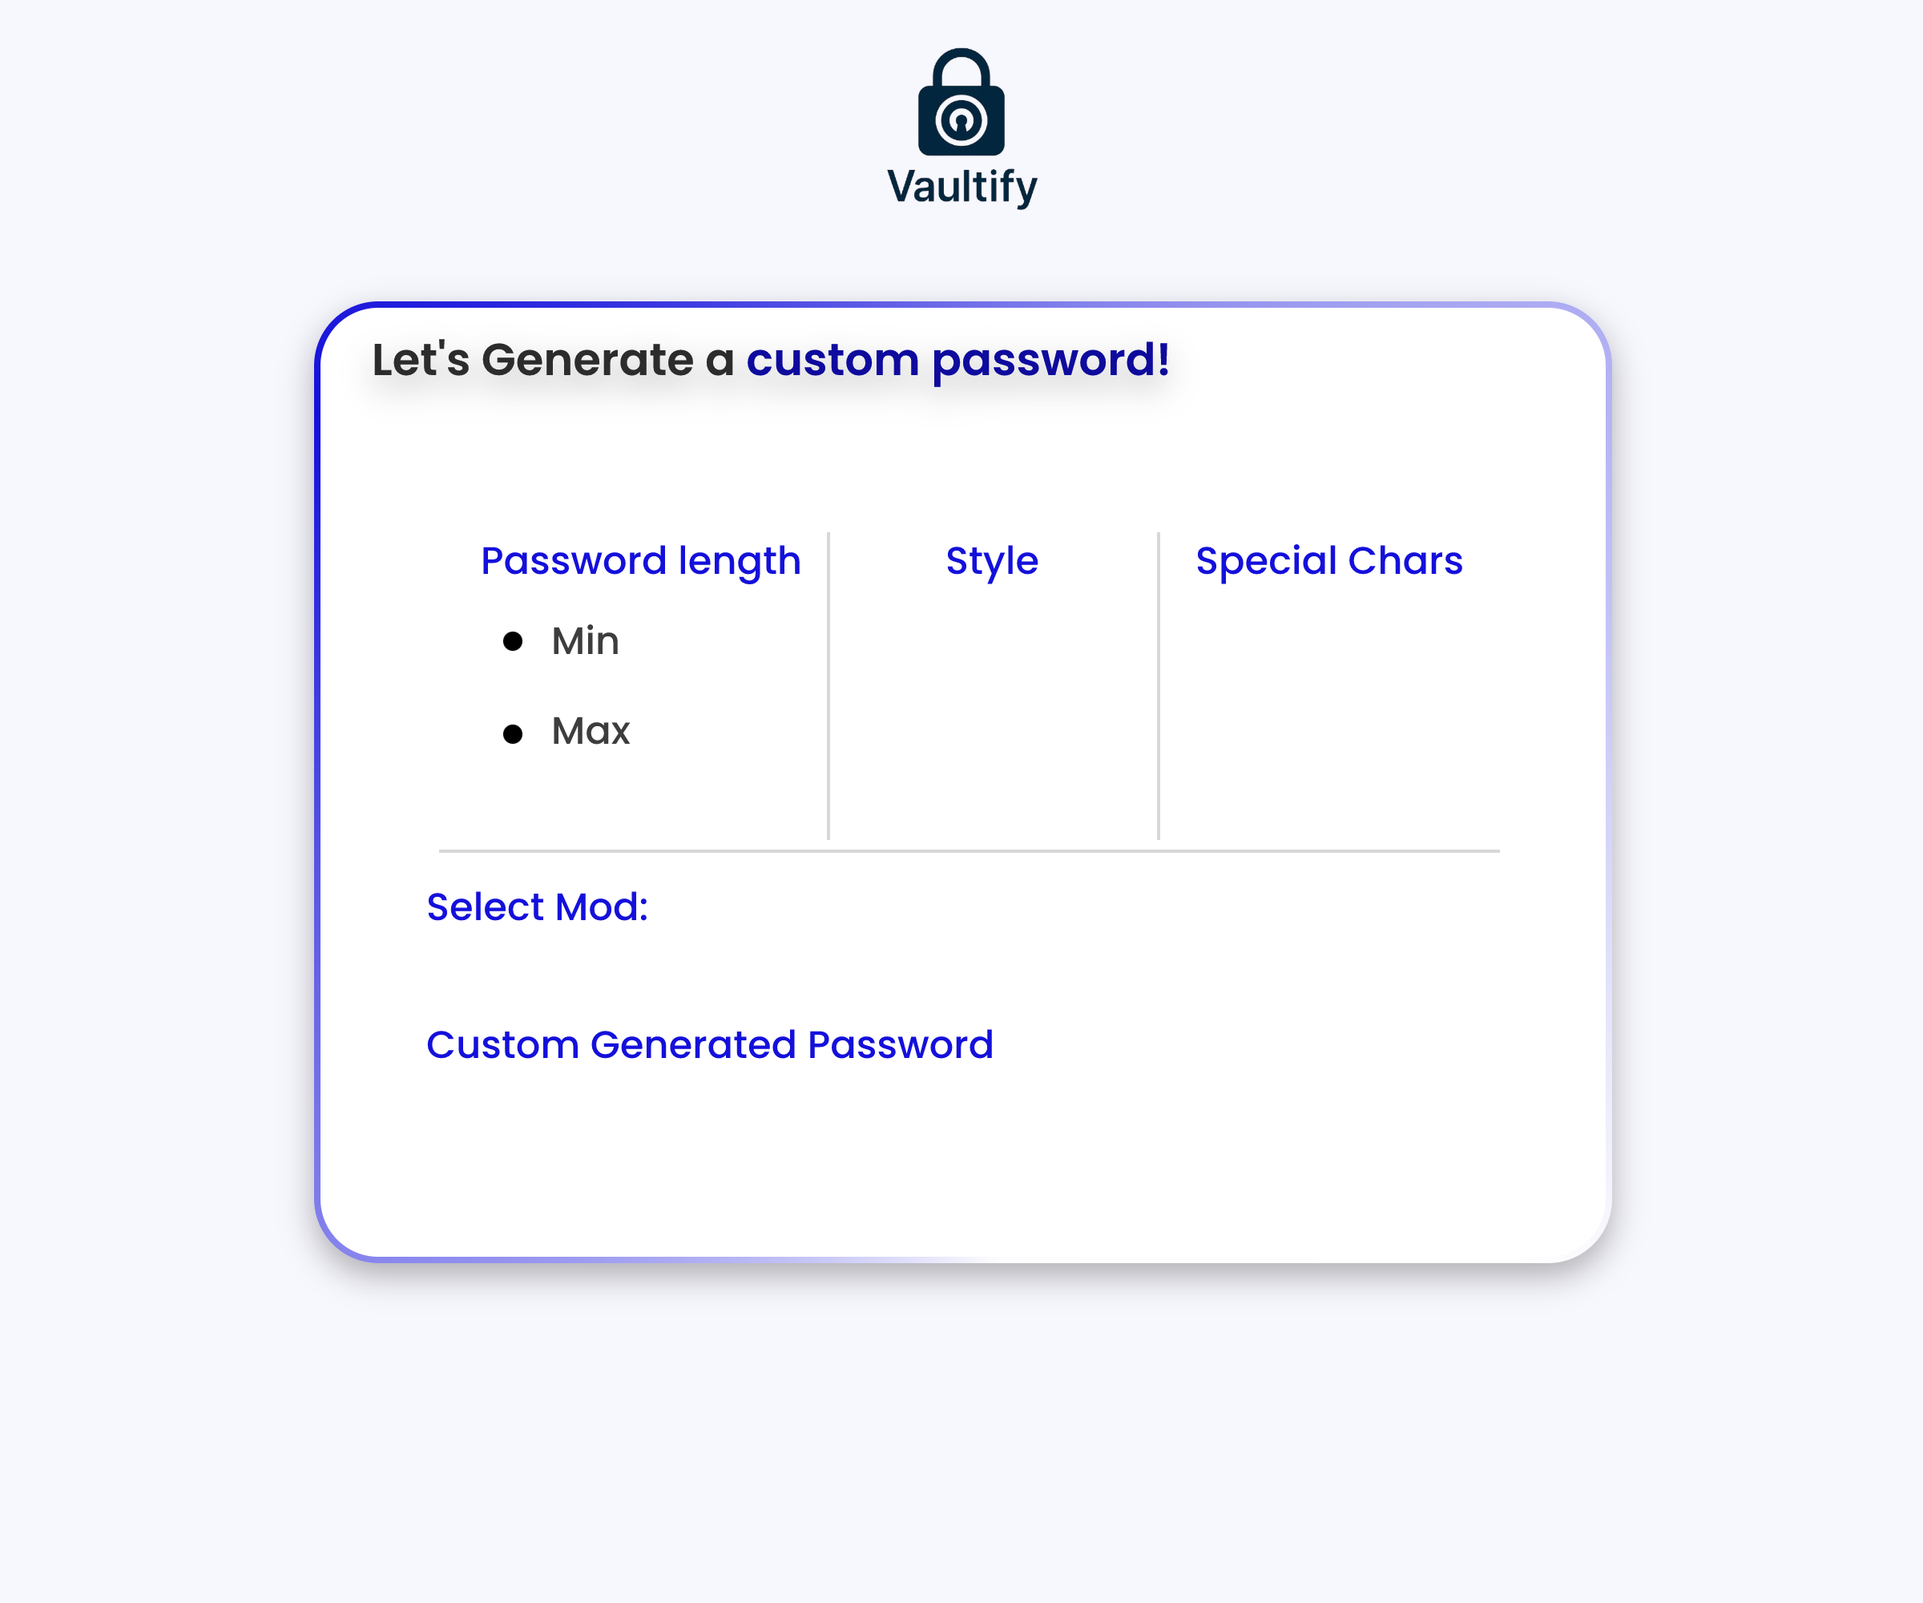
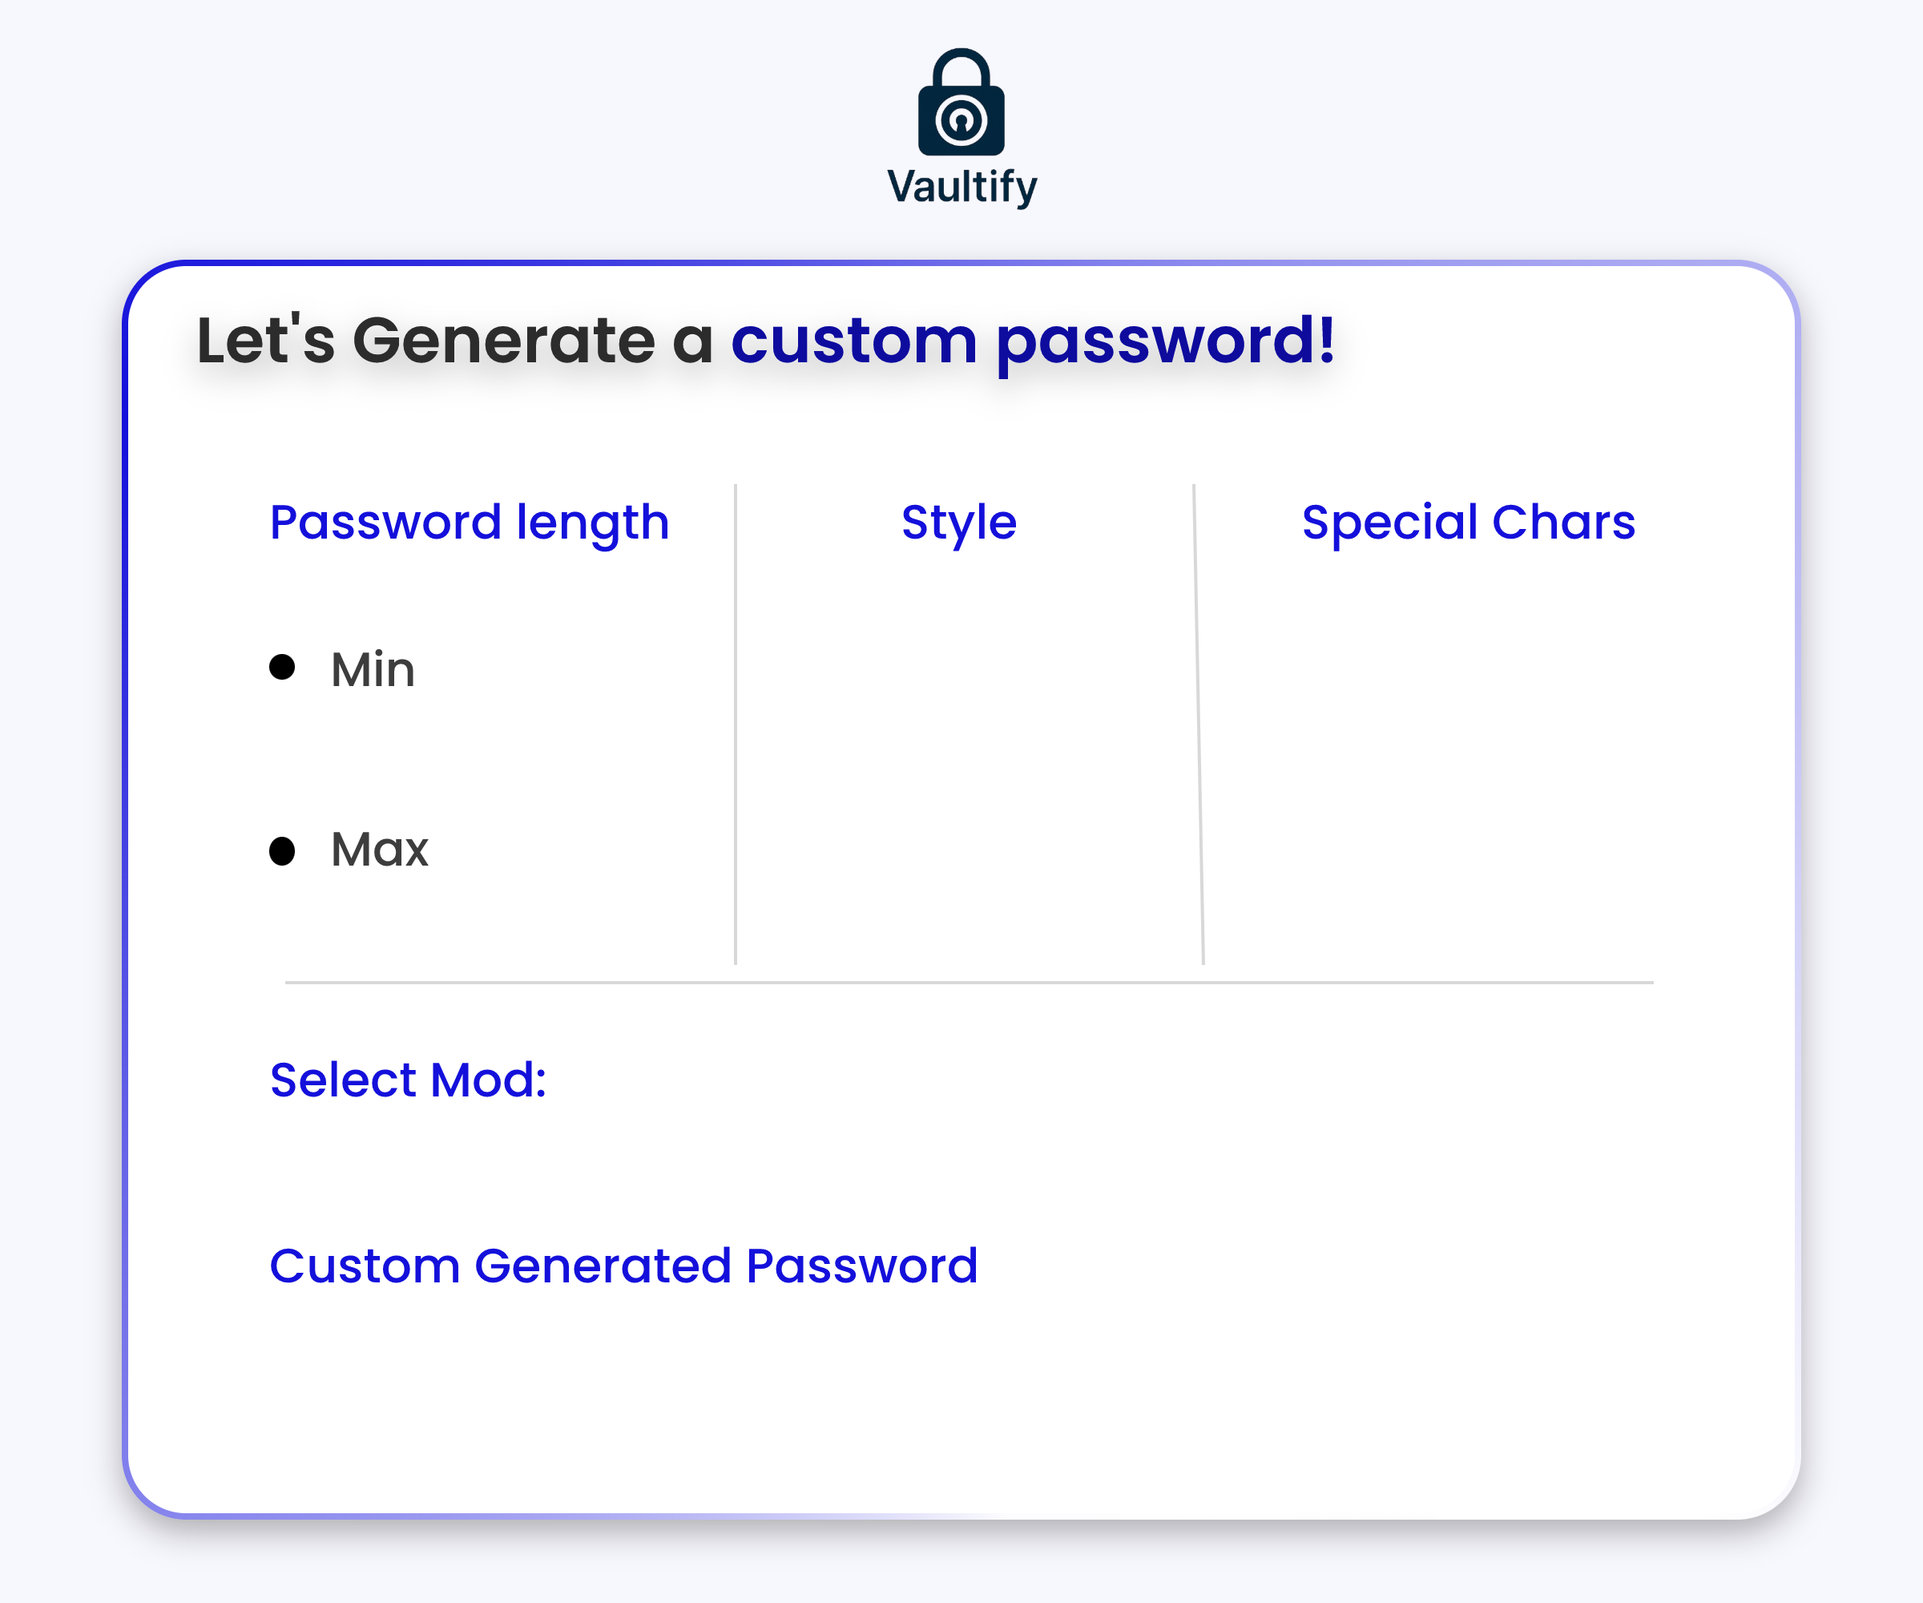
mid commit 3

diff --git a/main.py b/main.py
@@ -1,5 +1,6 @@
 from tkinter import *
 from tkinter import messagebox
+from tkinter import filedialog
 from PIL import Image, ImageTk
 import os
 import customtkinter as ctk
@@ -19,6 +20,7 @@ from pyzbar.pyzbar import decode
 import time
 import cv2
 import threading
+import qrcode
 
 current_winfo = ["Dashboard"]
 pass_style = ["AlphaNumeric"]
@@ -199,6 +201,7 @@ def home_func():
     wifi_canvas.pack_forget()
     settings_canvas.pack_forget()
     add_password_canvas.pack_forget()
+    gen_qr_canvas.pack_forget()
     show_password_canvas.pack_forget()
     clear_scrollable_frame(password_frame)
     content_canvas.pack(fill='both', expand=True)
@@ -219,6 +222,7 @@ def pass_func():
     qr_canvas.pack_forget()
     wifi_canvas.pack_forget()
     settings_canvas.pack_forget()
+    gen_qr_canvas.pack_forget()
     add_password_canvas.pack_forget()
     show_password_canvas.pack_forget()
     clear_scrollable_frame(password_frame)
@@ -242,6 +246,7 @@ def passgen_func():
     wifi_canvas.pack_forget()
     settings_canvas.pack_forget()
     add_password_canvas.pack_forget()
+    gen_qr_canvas.pack_forget()
     show_password_canvas.pack_forget()
     clear_scrollable_frame(password_frame)
     passgen_canvas.pack(fill='both', expand=True)
@@ -263,6 +268,7 @@ def qr_func():
     passgen_canvas.pack_forget()
     wifi_canvas.pack_forget()
     settings_canvas.pack_forget()
+    gen_qr_canvas.pack_forget()
     add_password_canvas.pack_forget()
     show_password_canvas.pack_forget()
     clear_scrollable_frame(password_frame)
@@ -277,6 +283,14 @@ def qr_func():
 
     current_winfo.insert(0, "QR")
 
+def gen_qr_func():
+    qr_canvas.pack_forget()
+    gen_qr_canvas.pack(fill='both', expand=True)
+
+def gen_qr_back():
+    gen_qr_canvas.pack_forget()
+    qr_canvas.pack(fill='both', expand=True)
+
 def wifi_func():
     global current_winfo
     content_canvas.pack_forget()
@@ -286,6 +300,7 @@ def wifi_func():
     settings_canvas.pack_forget()
     add_password_canvas.pack_forget()
     show_password_canvas.pack_forget()
+    gen_qr_canvas.pack_forget()
     clear_scrollable_frame(password_frame)
     wifi_canvas.pack(fill='both', expand=True)
 
@@ -308,6 +323,7 @@ def setting_func():
     qr_canvas.pack_forget()
     add_password_canvas.pack_forget()
     show_password_canvas.pack_forget()
+    gen_qr_canvas.pack_forget()
     clear_scrollable_frame(password_frame)
     wifi_canvas.pack_forget()
 
@@ -372,6 +388,10 @@ def fetch_credentials():
     except sqlite3.OperationalError:
         messagebox.showinfo("Empty Password Data", "First add some password!")
 
+def Label_image(Image_path):
+    pil_image = Image.open(Image_path)  # Replace with your image path
+    ctk_image = ctk.CTkImage(light_image=pil_image, dark_image=pil_image, size=(20, 20))
+    return ctk_image
 
 def show_all_pass():
     password_canvas.pack_forget()
@@ -388,12 +408,19 @@ def show_all_pass():
             row.pack(fill="x", pady=5, padx=5)
 
             # Domain
-            domain_label = ctk.CTkLabel(row, text=f"🌐 {data['domain']}", font=ctk.CTkFont("poppins", size=12, weight="bold"),
+            cwd = os.getcwd()
+            imspath = os.path.join(cwd, "Assets","Labels", "globe.png")
+            domain_img = Label_image(imspath)
+
+            domain_label = ctk.CTkLabel(row,image=domain_img ,text=f" {data['domain']}", compound='left', font=ctk.CTkFont("poppins", size=12, weight="bold"),
                                         fg_color="#F7F7FE", corner_radius=20, bg_color="#F7F7FE", text_color="#1410DB")
             domain_label.grid(row=0, column=0, padx=10, pady=5, sticky="w")
 
             # Password + Copy Button
-            pwd_label = ctk.CTkLabel(row, text=f"🔑 {data['password']}", font=ctk.CTkFont("poppins", size=12),
+            imspath = os.path.join(cwd, "Assets","Labels", "keypass.png")
+            pwd_img = Label_image(imspath)
+
+            pwd_label = ctk.CTkLabel(row, image = pwd_img, text=f" {data['password']}", compound='left', font=ctk.CTkFont("poppins", size=12),
                                     fg_color="#F7F7FE", corner_radius=20, bg_color="#F7F7FE")
             pwd_label.grid(row=1, column=0, padx=10, sticky="w", pady = 5)
 
@@ -402,7 +429,10 @@ def show_all_pass():
             pwd_copy.grid(row=1, column=1, padx=5, pady = 5)
 
             # Phone + Copy Button
-            phone_label = ctk.CTkLabel(row, text=f"📞 {data['phone']}", font=ctk.CTkFont("poppins", size=12),
+            imspath = os.path.join(cwd, "Assets","Labels", "phone.png")
+            phone_img = Label_image(imspath)
+
+            phone_label = ctk.CTkLabel(row,image=phone_img ,text=f" {data['phone']}", compound='left', font=ctk.CTkFont("poppins", size=12),
                                     fg_color="#F7F7FE", corner_radius=20, bg_color="#F7F7FE")
             phone_label.grid(row=2, column=0, padx=10, sticky="w", pady = 5)
 
@@ -411,7 +441,11 @@ def show_all_pass():
             phone_copy.grid(row=2, column=1, padx=5, pady = 5)
 
             # Email + Copy Button
-            email_label = ctk.CTkLabel(row, text=f"📧 {data['email']}", font=ctk.CTkFont("poppins", size=12),
+
+            imspath = os.path.join(cwd, "Assets","Labels", "mail.png")
+            email_img = Label_image(imspath)
+            
+            email_label = ctk.CTkLabel(row,image=email_img ,text=f" {data['email']}", compound='left', font=ctk.CTkFont("poppins", size=12),
                                     fg_color="#F7F7FE", corner_radius=20, bg_color="#F7F7FE")
             email_label.grid(row=3, column=0, padx=10, pady=(0, 5), sticky="w")
 
@@ -427,7 +461,11 @@ def show_all_pass():
                 tc = "yellow"
             elif data['strength'] == "Strong":
                 tc = "green"
-            strength_label = ctk.CTkLabel(row, text=f"🛡 Strength: {data['strength']}", font=ctk.CTkFont("poppins", 12, "bold"),
+            
+            imspath = os.path.join(cwd, "Assets","Labels", "shield.png")
+            strn_img = Label_image(imspath)
+
+            strength_label = ctk.CTkLabel(row,image=strn_img ,text=f" Strength: {data['strength']}", compound='left', font=ctk.CTkFont("poppins", 12, "bold"),
                                         fg_color="#F7F7FE", corner_radius=20, bg_color="#F7F7FE", text_color=tc)
             strength_label.grid(row=4, column=0, padx=10, pady=(0, 8), sticky="w")
 
@@ -523,11 +561,11 @@ def add_pass_db():
 
     should_add = True
 
-    username_val = username_entry.get()
-    password_val = password_entry.get()
-    phone_val = phone_entry.get()
-    email_val = email_entry.get()
-    url_val = url_entry.get()
+    username_val = username_entry.get().strip()
+    password_val = password_entry.get().strip()
+    phone_val = phone_entry.get().strip()
+    email_val = email_entry.get().strip()
+    url_val = url_entry.get().strip()
 
     username_val = username_val if username_val else None
     password_val = password_val if password_val else None
@@ -855,6 +893,41 @@ def copyqr():
     global qr_content
     copy_to_clipboard(qr_content[0])
     
+def generate_qr_func():
+    # Get text from textbox
+    input_text = gen_qr_textbox.get("1.0", END).strip()
+    if not input_text:
+        messagebox.showerror("No-Input", "Give message to convert to QR")
+        return
+
+    # Generate QR Code
+    qr = qrcode.QRCode(
+        version=1,
+        error_correction=qrcode.constants.ERROR_CORRECT_H,
+        box_size=10,
+        border=4
+    )
+    qr.add_data(input_text)
+    qr.make(fit=True)
+
+    coloropt=["#641e16",'#512e5f','#4a235a','#154360','#1b4f72','#0b5345','#f1c40f','#f39c12','#F08080']
+    color=random.choice(coloropt)
+    qr_img = qr.make_image(fill_color=color, back_color="white")
+
+    # Save the image
+    save_path = filedialog.asksaveasfilename(defaultextension=".png", filetypes=[("PNG Image", "*.png")])
+    if save_path:
+        qr_img.save(save_path)
+
+        # Display image
+        img = Image.open(save_path)
+        img = img.resize((200, 200))
+        img_tk = ImageTk.PhotoImage(img)
+        qr_img_label.configure(image=img_tk, text="")
+        qr_img_label.image = img_tk  # keep a reference!
+
+def clear_qr():
+    gen_qr_textbox.delete("1.0", END)
 
 win=Tk()
 win.geometry("800x500+150+110")
@@ -1086,58 +1159,58 @@ passgen_canvas.create_image(300,250, image=bgimage9)
 
 min_entry = ctk.CTkEntry(passgen_canvas, font=("poppins", 12), placeholder_text="Min 6", fg_color="white", bg_color="white",
                          text_color="black", border_width=1, corner_radius=5, border_color="black", 
-                         width=50, height=25)
-min_entry.place(x = 200, y = 187)
+                         width=80, height=25)
+min_entry.place(x = 140, y = 197)
 
 max_entry = ctk.CTkEntry(passgen_canvas, font=("poppins", 12), placeholder_text="Max 25", fg_color="white", bg_color="white",
                          text_color="black", border_width=1, corner_radius=5, border_color="black", 
-                         width=50, height=25)
-max_entry.place(x = 203, y = 215)
+                         width=80, height=25)
+max_entry.place(x = 140, y = 253)
 an_var = IntVar()
 
-an_cb = ctk.CTkCheckBox(passgen_canvas, text="Alpha Numeric", font=('poppins', 12 ), fg_color="#1410DB", bg_color="white",
-                        text_color="black", checkmark_color="white", checkbox_height=15, checkbox_width=15,
+an_cb = ctk.CTkCheckBox(passgen_canvas, text="Alpha Numeric", font=('poppins', 14 ), fg_color="#1410DB", bg_color="white",
+                        text_color="black", checkmark_color="white", checkbox_height=24, checkbox_width=24,
                         command= customPassword, variable=an_var)
-an_cb.place(x =260, y = 187 )
+an_cb.place(x =240, y = 187 )
 
 a_var = IntVar()
-a_cb = ctk.CTkCheckBox(passgen_canvas, text="Alpha", font=('poppins', 12 ), fg_color="#1410DB", bg_color="white",
-                        text_color="black", checkmark_color="white", checkbox_height=15, checkbox_width=15,
+a_cb = ctk.CTkCheckBox(passgen_canvas, text="Alpha", font=('poppins', 14 ), fg_color="#1410DB", bg_color="white",
+                        text_color="black", checkmark_color="white", checkbox_height=24, checkbox_width=24,
                         command= customPassword, variable=a_var)
-a_cb.place(x =260, y = 210 )
+a_cb.place(x =240, y = 220 )
 
 n_var = IntVar()
-n_cb = ctk.CTkCheckBox(passgen_canvas, text="Numeric", font=('poppins', 12 ), fg_color="#1410DB", bg_color="white",
-                        text_color="black", checkmark_color="white", checkbox_height=15, checkbox_width=15,
+n_cb = ctk.CTkCheckBox(passgen_canvas, text="Numeric", font=('poppins', 14 ), fg_color="#1410DB", bg_color="white",
+                        text_color="black", checkmark_color="white", checkbox_height=24, checkbox_width=24,
                         command= customPassword, variable=n_var)
-n_cb.place(x =260, y = 230 )
+n_cb.place(x =240, y = 250 )
 
 yes_var = IntVar()
-spchar_cb_yes = ctk.CTkCheckBox(passgen_canvas, text="Yes", font=('poppins', 12 ), fg_color="#1410DB", bg_color="white",
-                        text_color="black", checkmark_color="white", checkbox_height=15, checkbox_width=15,
+spchar_cb_yes = ctk.CTkCheckBox(passgen_canvas, text="Yes", font=('poppins', 14 ), fg_color="#1410DB", bg_color="white",
+                        text_color="black", checkmark_color="white", checkbox_height=24, checkbox_width=24,
                         variable=yes_var, command=customChar)
-spchar_cb_yes.place(x =370, y = 187 )
+spchar_cb_yes.place(x =380, y = 187 )
 
 no_var = IntVar()
-spchar_cb_no = ctk.CTkCheckBox(passgen_canvas, text="No", font=('poppins', 12 ), fg_color="#1410DB", bg_color="white",
-                        text_color="black", checkmark_color="white", checkbox_height=15, checkbox_width=15,
+spchar_cb_no = ctk.CTkCheckBox(passgen_canvas, text="No", font=('poppins', 14 ), fg_color="#1410DB", bg_color="white",
+                        text_color="black", checkmark_color="white", checkbox_height=24, checkbox_width=24,
                         variable=no_var, command=customChar)
-spchar_cb_no.place(x =370, y = 230 )
+spchar_cb_no.place(x =380, y = 240 )
 
 value = ['Fruits','Flowers','Animals','Movies','Celebrities','Anime_Characters','Gaming_ID']
 mods = ctk.CTkOptionMenu(passgen_canvas, values=value, fg_color="#1410DB", text_color="white",
-                         height=25, width=100, bg_color="white")
-mods.place(relx = 0.46, rely = 0.565, anchor = 'center')
+                         height=30, width=150, bg_color="white")
+mods.place(relx = 0.46, rely = 0.675, anchor = 'center')
 mods.set("Select")
 
 cstmgenpass_dis = ctk.CTkEntry(passgen_canvas, font=("poppins",12), fg_color="white", bg_color="white",
                                border_width=1, border_color='black', state=DISABLED)
-cstmgenpass_dis.place(relx = 0.65, rely = 0.65, anchor = 'center')
+cstmgenpass_dis.place(relx = 0.65, rely = 0.785, anchor = 'center')
 
 
 gen_btn = ctk.CTkButton(passgen_canvas, text="Generate", font=("poppins", 12, "bold"), fg_color="#1410DB",
                         bg_color="white", text_color="white", command=Generate_custom_password)
-gen_btn.place(relx = 0.5, rely = 0.75, anchor = "center")
+gen_btn.place(relx = 0.5, rely = 0.9, anchor = "center")
 # --------------------------------------------------------------------------------------------------------------
 
 qr_canvas=Canvas(content_frame,bg='white',bd=0,highlightthickness=0, relief='ridge')
@@ -1162,6 +1235,46 @@ copy_qr = ctk.CTkButton(qr_canvas,text="Copy QR-Code", bg_color="white", fg_colo
 
 copy_qr.place(relx = 0.6, rely = 0.7, anchor = 'center')
 
+generate_qr = ctk.CTkButton(qr_canvas,text="Generate QR-Code", bg_color="white", fg_color="white", font=("poppins", 12, "bold"),
+                            text_color="black", cursor = "hand2", width=100, border_color="black", border_width=1,
+                            command=gen_qr_func)
+
+generate_qr.place(relx = 0.5, rely = 0.9, anchor = 'center')
+
+gen_qr_canvas=Canvas(content_frame,bg='white',bd=0,highlightthickness=0, relief='ridge')
+gen_qr_canvas.propagate(False)
+
+imagepath15=cwd+"\\Assets\\UIUX\\genqr.png"
+openphoto15=Image.open(imagepath15).resize((600,500))
+bgimage15=ImageTk.PhotoImage(openphoto15)
+gen_qr_canvas.create_image(300,250, image=bgimage15)
+
+qr_store_frame = ctk.CTkFrame(gen_qr_canvas, fg_color="white", bg_color="white", height=200,
+                              width=200, border_color="black", border_width=1)
+qr_store_frame.place(x = 40, y = 140)
+
+qr_img_label = Label(qr_store_frame)
+qr_img_label.pack(fill='both', expand=True)
+
+gen_qr_textbox = ctk.CTkTextbox(gen_qr_canvas, font=("poppins", 12), height=190, width=218, border_width=0, border_color="black",
+                            scrollbar_button_color="#1410DB")
+gen_qr_textbox.pack(pady = (137, 0), padx = (285, 0))
+
+gen_qr_btn = ctk.CTkButton(gen_qr_canvas,text="Generate QR-Code", bg_color="white", fg_color="#1410DB", font=("poppins", 12, "bold"),
+                            text_color="white", cursor = "hand2", command= generate_qr_func, width=100)
+
+gen_qr_btn.place(relx = 0.64, rely = 0.74, anchor = 'center')
+
+gen_clear_tb = ctk.CTkButton(gen_qr_canvas,text="Clear Textbox", bg_color="white", fg_color="green", font=("poppins", 12, "bold"),
+                            text_color="white", cursor = "hand2", width=100, command=clear_qr)
+
+gen_clear_tb.place(relx = 0.84, rely = 0.74, anchor = 'center')
+
+qr_back = ctk.CTkButton(gen_qr_canvas,text="Back", bg_color="white", fg_color="white", font=("poppins", 12, "bold"),
+                            text_color="black", cursor = "hand2", width=100, border_color="black", border_width=1,
+                            command=gen_qr_back)
+
+qr_back.place(relx = 0.5, rely = 0.9, anchor = 'center')
 
 # --------------------------------------------------------------------------------------------------------------
 
